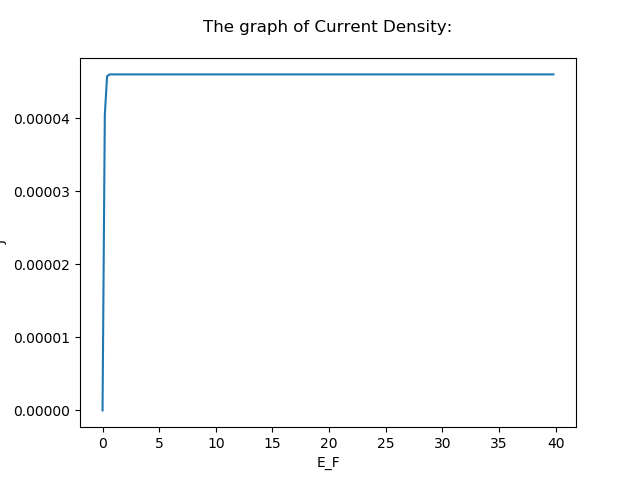
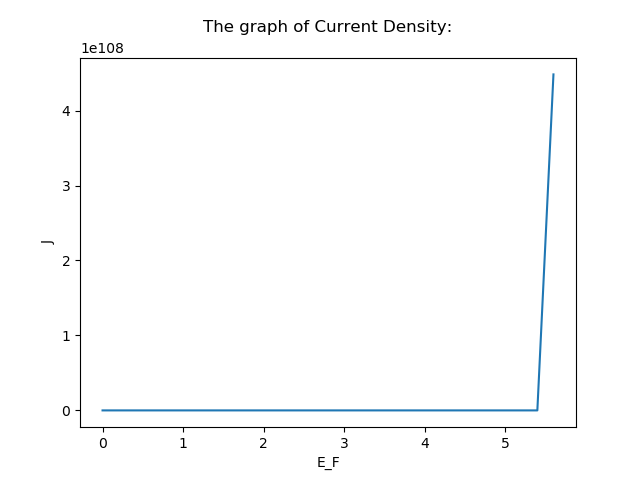
Increment the value F using another varible j. like 10^7, 20^7, 30^7, 10^8 etc...

diff --git a/physics.py b/physics.py
@@ -5,10 +5,12 @@ import matplotlib.pyplot as plt
 
 phi = 3
 E_F = 0
-F = 1E7
+# j variable for increment of F
+j = 7 
+F = 10**j # expontial expression represents 10 to power 7
 x = []
 y = []
-for i in range(200):
+for i in range(1,30):
 
     a = (1.54143E-6*F*F)/phi
     b = (6.83089E7 * math.pow(phi,1.5)/F)
@@ -42,6 +44,13 @@ for i in range(200):
     
     #increment
     E_F = E_F + 0.2
+
+    if i%10==0:
+        j +=1
+        F = 10**j
+    else:
+        F = (i%10) * (10 ** j)
+
 
 print(x)
 print(y)
